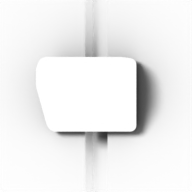
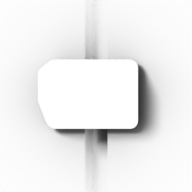
feat(panel): model drawbar and layer caps after the real parts
Owner photos of the real caps: black and white drawbars are one part, so
they now share one geometry and camera and differ only by material (no
per-instance projection). Drawbar cap: block with tapered sides and sloped
front, long lower nose offset left with chamfered front, low foot. Layer
cap: rounded frustum. Calibrated materials, Blender shadows.

diff --git a/assets/blender/parts_cap.py b/assets/blender/parts_cap.py
@@ -1,104 +1,91 @@
 """Drawbar / layer-fader cap and its slotted plate for the B7 proof (runs inside Blender).
 
-Original art (D16): authored from two extruded side profiles. Sizes are numbers measured on the
-owner's private reference (1 u = 129 reference px, see parts_knob.REF_PX_PER_U).
+Original art (D16): geometry authored from primitives (lofted sections); shapes follow the
+owner's photos of the real parts. Sizes are numbers measured on the owner's private reference (1 u = 129 reference px, see parts_knob.REF_PX_PER_U).
 """
 
 from __future__ import annotations
 
-import bmesh
 import bpy
-from proof_geom import box, loft, mesh_obj
+from proof_geom import box, loft
 
-# EMPIRICAL: white drawbar cap on the reference is 100 px wide and 231 px long; the lower nose
-# block is narrower (85 px), shifted left, and ends in a chamfer that reads as a 30 px band.
-CAP_W = 0.85  # EMPIRICAL: fitted to the reference cap silhouettes (IoU), was 0.78
+# Shape EMPIRICAL from photos of the real parts (owner, 2026-11-13): the drawbar cap is one
+# part: a tall rear block whose sides and front slope inward, and a long lower nose with a
+# chamfered front, narrower and offset left (reference). Plan size EMPIRICAL from the
+# reference (100 x 231 px = 0.78 x 1.79 u at the base). Black and white caps share this geometry.
+CAP_W = 0.80
 CAP_BACK, CAP_FRONT = 0.90, -0.89
-# ASSUMED: top block, nose and front skirt heights (only the lean and shading show them).
-CAP_HT, CAP_HN, CAP_HS = 0.50, 0.30, 0.04
-SKIRT_H = 0.16  # ASSUMED: lower body height (only its outline is measured)
-NOSE_X = (-0.45, 0.16)  # EMPIRICAL: nose left / right edge (black 16' cap, 4x zoom read)
-CAP_TAPER = 0.05  # EMPIRICAL: side walls lean in by this fraction of the width at the top
-CAP_BEVEL = 0.07  # EMPIRICAL: soft rounded edges, larger than v2's 0.03
+CAP_HT, CAP_HN = 0.50, 0.26  # ASSUMED heights (photo ratio about 2 : 1)
+BLOCK_FRONT = -0.18  # base of the block's sloped front face
+BLOCK_TOP_FRONT = 0.02  # top edge of that face
+NOSE_TOP_FRONT, NOSE_CHAMFER_Z = -0.66, 0.08  # front chamfer of the nose
+# EMPIRICAL (reference, every drawbar): the nose is narrower than the block and offset left
+NOSE_X = (-0.42, 0.18)
+FOOT_H = 0.12  # ASSUMED: low base under the nose, full width
+CAP_TAPER = 0.18  # EMPIRICAL: block top is about 0.82 of its base width (photo, front view)
+CAP_BEVEL = 0.07
 CAP_LIFT = 0.03  # cap floats above the plate so the slot shows under it
-# EMPIRICAL: grey layer-fader cap on the reference is 96 px wide and 74 px long.
-LAYER_W, LAYER_L = 0.69, 0.585  # EMPIRICAL: silhouette fit (was 0.75 x 0.57)
-LAYER_H = 0.34  # ASSUMED
-LAYER_BEVEL = 0.09  # EMPIRICAL: the layer cap reads as a rounder, pillowy block
+# Layer-fader cap EMPIRICAL from its photo: a frustum, top smaller than the base on all sides,
+# rounded edges. Base 96 x 74 reference px.
+LAYER_W, LAYER_L, LAYER_H = 0.74, 0.58, 0.36
+LAYER_TOP = (0.82, 0.50)  # top width / length as a fraction of the base
+LAYER_BEVEL = 0.07
 # EMPIRICAL: slot is about 22 px wide on the reference, 0.22 of the cap width.
 SLOT_W, SLOT_LEN, SLOT_DEPTH, PLATE_T = 0.17, 3.4, 0.16, 0.2
 
 
-def _extrude_profile(name, prof, x0, x1, mat, z_top, bevel=CAP_BEVEL):
-    """Extrude a (y, z) side profile between x0 and x1, then lean the side walls inward with
-    height (the sloped wall of the reference caps)."""
-    bm = bmesh.new()
-    lo = [bm.verts.new((x0, y, z)) for y, z in prof]
-    hi = [bm.verts.new((x1, y, z)) for y, z in prof]
-    bm.faces.new(lo[::-1])
-    bm.faces.new(hi)
-    n = len(prof)
-    for i in range(n):
-        j = (i + 1) % n
-        bm.faces.new((lo[i], lo[j], hi[j], hi[i]))
-    cx, w = (x0 + x1) / 2, x1 - x0
-    for v in bm.verts:
-        k = CAP_TAPER * (v.co.z / z_top) * w / 2
-        v.co.x -= k if v.co.x > cx else -k
-        v.co.z += CAP_LIFT
-    bmesh.ops.recalc_face_normals(bm, faces=bm.faces)
-    return mesh_obj(name, bm, mat, bevel=bevel, segments=8, angle=20)
+def _section(y, z, top_frac, x0=-CAP_W / 2, x1=CAP_W / 2):
+    """Trapezoid cross-section at y between x0 and x1, `top_frac` of that width on top."""
+    c, hb = (x0 + x1) / 2, (x1 - x0) / 2
+    ht, zl = hb * top_frac, CAP_LIFT
+    return [(c - hb, y, zl), (c + hb, y, zl), (c + ht, y, zl + z), (c - ht, y, zl + z)]
 
 
-def _section(y, x0, x1, z):
-    """Cross-section ring at y: bottom edge, then the top edge pulled in by the wall slope."""
-    k = CAP_TAPER * (x1 - x0) / 2 * min(1.0, z / CAP_HT)
-    zl = CAP_LIFT
-    return [(x0, y, zl), (x1, y, zl), (x1 - k, y, zl + z), (x0 + k, y, zl + z)]
+def _frac(z):
+    return 1.0 - CAP_TAPER * z / CAP_HT
 
 
 def fader_cap(m, key):
-    """Drawbar cap, lofted from back to front: rounded back chamfer, long flat top, a slope that
-    narrows into a lower nose shifted left, then the front skirt at the foot (shadowed by the
-    nose). `key` picks cap_black / cap_white."""
-    ht, hn, hs = CAP_HT, CAP_HN, CAP_HS
-    half = CAP_W / 2
-    nx0, nx1 = NOSE_X
-    sections = [
-        (CAP_BACK, -half, half, ht - 0.12),
-        (CAP_BACK - 0.20, -half, half, ht),
-        (-0.10, -half, half, ht),
-        (-0.38, nx0, nx1, hn),
-        (-0.66, nx0, nx1, hn),
-        (-0.74, nx0, nx1, 0.06),
+    """Drawbar cap: flange, tall rear block with sloped sides and front, long lower nose with
+    a chamfered front, lofted from back to front. `key` picks the material."""
+    ht, hn = CAP_HT, CAP_HN
+    w = (-CAP_W / 2, CAP_W / 2)
+    secs = [
+        (CAP_BACK, ht * 0.86, *w),
+        (CAP_BACK - 0.08, ht, *w),
+        (BLOCK_TOP_FRONT, ht, *w),
+        (BLOCK_FRONT, hn, *NOSE_X),
+        (NOSE_TOP_FRONT, hn, *NOSE_X),
+        (CAP_FRONT, NOSE_CHAMFER_Z, *NOSE_X),
     ]
-    body = loft(
-        "cap_body",
-        [_section(*s) for s in sections],
+    rings = [_section(y, z, _frac(z), x0, x1) for y, z, x0, x1 in secs]
+    body = loft("cap_body", rings, m[key], smooth=False, bevel=CAP_BEVEL, segments=8)
+    # the nose sits on a low full-width foot that ends with the nose (seen right of the nose)
+    foot = loft(
+        "cap_foot",
+        [_section(y, FOOT_H, 0.97) for y in (BLOCK_FRONT + 0.1, CAP_FRONT)],
         m[key],
         smooth=False,
-        bevel=CAP_BEVEL,
-        segments=8,
+        bevel=0.02,
+        segments=3,
     )
-    skirt = _extrude_profile(
-        "cap_skirt",
-        # EMPIRICAL: the lower body runs full width under and right of the nose down to the
-        # front (silhouette fit on the reference)
-        [(-0.08, 0.0), (-0.08, SKIRT_H), (CAP_FRONT + 0.03, SKIRT_H), (CAP_FRONT, 0.0)],
-        -half,
-        half,
-        m[key],
-        hs,
-    )
-    return [body, skirt]
+    return [body, foot]
 
 
 def layer_cap(m, key):
-    """Short layer-fader cap: a small back chamfer, a short flat top and a long front slope (the
-    reference shows the slope as the largest face)."""
-    ht, y0, y1 = LAYER_H, -LAYER_L / 2, LAYER_L / 2
-    prof = [(y1, 0.0), (y1, ht - 0.08), (y1 - 0.08, ht), (0.05, ht), (y0 + 0.03, 0.10), (y0, 0.0)]
-    return [_extrude_profile("layer_cap", prof, -LAYER_W / 2, LAYER_W / 2, m[key], ht, LAYER_BEVEL)]
+    """Layer-fader cap: rounded frustum, top smaller than the base on all four sides."""
+    w, ln, h = LAYER_W / 2, LAYER_L / 2, LAYER_H
+    tw, tl = w * LAYER_TOP[0], ln * LAYER_TOP[1]
+    rings = [
+        [(-w, -ln, CAP_LIFT), (w, -ln, CAP_LIFT), (w, ln, CAP_LIFT), (-w, ln, CAP_LIFT)],
+        [
+            (-tw, -tl, CAP_LIFT + h),
+            (tw, -tl, CAP_LIFT + h),
+            (tw, tl, CAP_LIFT + h),
+            (-tw, tl, CAP_LIFT + h),
+        ],
+    ]
+    return [loft("layer_cap", rings, m[key], smooth=False, bevel=LAYER_BEVEL, segments=6)]
 
 
 def plate_slot(m):

diff --git a/assets/blender/build_proof.py b/assets/blender/build_proof.py
@@ -93,25 +93,20 @@ def render_ref_knobs(out: Path, scale: int) -> None:
 
 
 CAPS = {
-    "drawbar_cap_black": ("drawbar_shadow_black", C.fader_cap),
-    "drawbar_cap_white": ("drawbar_shadow_white", C.fader_cap),
-    "layer_cap_grey": ("layer_shadow_grey", C.layer_cap),
+    "drawbar_cap_black": ("drawbar_shadow_black", C.fader_cap, "cap_black", "drawbar"),
+    "drawbar_cap_white": ("drawbar_shadow_white", C.fader_cap, "cap_white", "drawbar"),
+    "layer_cap_grey": ("layer_shadow_grey", C.layer_cap, "cap_grey", "layer"),
 }
 
 
 def render_caps(out: Path, scale: int) -> None:
-    """3D caps textured by camera projection (D17): the geometry gives the silhouette and its
-    anti-aliased edge, the reference crop (`proj_<cap>.png` from tools/panel_refbake.py,
-    already aligned to this camera's frame) gives the colour, unlit. Then the cap's shadow
-    on the slotted plate from the same geometry and lean."""
-    for name, (shadow, make) in CAPS.items():
-        m = fresh(scale, name, name)
-        mat = M.projected(f"proj_{name}", P.RAW_DIR / f"proj_{name}.png")
-        make({"proj": mat}, "proj")
-        cy = bpy.context.scene.cycles
-        cy.use_denoising, cy.samples = False, 64  # unlit texture: no noise, keep it sharp
+    """Caps as real parts: one geometry per part (both drawbar colours share it, same camera),
+    shaded with the calibrated materials, then the cap's shadow from the same geometry."""
+    for name, (shadow, make, mat, lean) in CAPS.items():
+        m = fresh(scale, name, lean)
+        make(m, mat)
         S.render(out / f"{name}_{scale}x.png")
-        m = fresh(scale, shadow, name)
+        m = fresh(scale, shadow, lean)
         S.flags(C.plate_slot(M.catcher_mats()), catcher=True)
         S.flags(make(m, "cap_black"), holdout=True)
         S.render(out / f"{shadow}_{scale}x.png")

diff --git a/assets/blender/proof_materials.py b/assets/blender/proof_materials.py
@@ -35,7 +35,7 @@ GAIN = {
     "silver": (1.091, 1.101, 1.078),
     "cap_black": (0.38, 0.307, 0.24),
     "cap_white": (1.059, 1.05, 1.039),
-    "cap_grey": (1.418, 1.407, 1.368),
+    "cap_grey": (1.12, 1.112, 1.081),
     "ring": (1.08, 1.08, 1.06),
     "knob_side": (1.8, 1.8, 1.8),
     "knob_top": (0.7, 0.66, 0.6),
@@ -175,7 +175,7 @@ def mats() -> dict[str, bpy.types.Material]:
         "pointer": material("pointer", u["pointer"], 0.45),
         "ring": material("ring", u["ring_white"], 0.6, gain=GAIN["ring"], spec=0.2),
         "cap_black": material(
-            "cap_black", u["cap_black_top"], 0.32, gain=GAIN["cap_black"], spec=0.8
+            "cap_black", u["cap_black_top"], 0.4, gain=GAIN["cap_black"], spec=0.35
         ),
         "cap_white": material(
             "cap_white", u["cap_white_top"], 0.35, gain=GAIN["cap_white"], spec=0.6

diff --git a/tools/panel_assets.py b/tools/panel_assets.py
@@ -53,7 +53,7 @@ LEAN = {
     # optical axis is above that knob (the reference is cropped off-centre vertically).
     "knob_master": (6.57, 1.0),
     "knob_drive": (6.57, 1.4),
-    "drawbar": (1.3, 2.97),
+    "drawbar": (1.3, 5.3),  # EMPIRICAL: between the 16' and 8' caps, axis above centre
     "layer": (5.29, -2.73),
     "button": (6.59, 0.70),
     "plate": (0.0, 0.0),

diff --git a/docs/research/panel-blender-proof.md b/docs/research/panel-blender-proof.md
@@ -65,7 +65,9 @@ MAD (mean absolute difference, 0..255) compares ours with the same reference are
 
 Sizes with the full style set: the proof set is 824 KB (1x) / 2.76 MB (2x) PNG. The full-panel estimate assumes 6 knob styles and 15 button styles, each button getting two more states later: 2.16 MB / 6.64 MB PNG, and 15.5 MB / 62.1 MB RGBA in GPU memory. The private comparison sheet is `.reference/panel-compare-v5.png`.
 
-Owner review of v4 (2026-11-13): the Blender drawbar and layer caps did not match, the DRIVE knob looked flat with a light red rim, and its "6" was clipped. Fixes: the caps are now cut from the reference with their own shadow layers. The knob edge colours are taken from the cap interior instead of the red plate. Second review: the plate grain was too soft (patch blending and the whole-tile cross-fade averaged two textures), so the tiles are now quilted on a torus with narrow overlaps. The caps showed a light halo, LED glow and label ticks; they now use a colour matte on the edge (alpha from the position between the local cap and plate colours), the LED glow is recoloured from the clean cap, the top block sides are straightened, and the shadow layer leaves out the edge pixels next to the cap. The button crops are inset 1 px. Third review: light bits at the white cap corners came from the silver label next to the cap unmixing as cap; bluish pixels outside the cap are now always transparent. The plate behind the caps (`plate_slate_slot`) was still the Blender slate; `pack` now keeps only the Blender slot and fills the plate with the reference slate tile shifted to the darker slate of the drawbar area (47, 57, 68), so that plate is now reference-derived (D17). Fifth review (cutouts replaced by 3D): the owner asked for real rendered borders. The caps are now Blender geometry (`parts_cap.py`) rendered with a camera at each cap's own lean (`panel_assets.LEAN`). The material is unlit and shows the reference crop through window (screen) coordinates, so the crop is projected onto the geometry from that camera (`proof_materials.projected`). The crop comes from `tools/panel_refcaps.projection_texture`, with the plate around the cap filled with cap colour. The silhouette and its anti-aliased edge therefore come from the geometry, and the colour from the reference. The geometry was fitted to the reference silhouettes: cap width 0.85 u, lower body full width from under the top block to the front, layer cap 0.69 x 0.585 u, and per-cap centre and lean. Silhouette IoU (rendered alpha vs reference cap mask, 2x): black 0.94, white 0.94, grey layer 0.90. The shadows are 3D shadow-catcher renders from the same geometry. The previous 2D cut-out steps described next were superseded for the caps.
+Owner review of v4 (2026-11-13): the Blender drawbar and layer caps did not match, the DRIVE knob looked flat with a light red rim, and its "6" was clipped. Fixes: the caps are now cut from the reference with their own shadow layers. The knob edge colours are taken from the cap interior instead of the red plate. Second review: the plate grain was too soft (patch blending and the whole-tile cross-fade averaged two textures), so the tiles are now quilted on a torus with narrow overlaps. The caps showed a light halo, LED glow and label ticks; they now use a colour matte on the edge (alpha from the position between the local cap and plate colours), the LED glow is recoloured from the clean cap, the top block sides are straightened, and the shadow layer leaves out the edge pixels next to the cap. The button crops are inset 1 px. Third review: light bits at the white cap corners came from the silver label next to the cap unmixing as cap; bluish pixels outside the cap are now always transparent. The plate behind the caps (`plate_slate_slot`) was still the Blender slate; `pack` now keeps only the Blender slot and fills the plate with the reference slate tile shifted to the darker slate of the drawbar area (47, 57, 68), so that plate is now reference-derived (D17). Sixth review (real parts): with the owner's photos of the real drawbar and layer-fader caps, the black and white drawbar caps are one shared part rendered with the same camera (`LEAN["drawbar"]`) and the calibrated materials, not two shapes fitted per instance with the reference projected on them. The drawbar cap is a lofted block with sides tapering to 0.82 of the base, a sloped front, a long lower nose (narrower and offset left, as on every drawbar of the reference) with a chamfered front, on a low full-width foot. The layer cap is a rounded frustum. The projection step below is kept in the tools but no longer used by the caps.
+
+Fifth review (cutouts replaced by 3D): the owner asked for real rendered borders. The caps are now Blender geometry (`parts_cap.py`) rendered with a camera at each cap's own lean (`panel_assets.LEAN`). The material is unlit and shows the reference crop through window (screen) coordinates, so the crop is projected onto the geometry from that camera (`proof_materials.projected`). The crop comes from `tools/panel_refcaps.projection_texture`, with the plate around the cap filled with cap colour. The silhouette and its anti-aliased edge therefore come from the geometry, and the colour from the reference. The geometry was fitted to the reference silhouettes: cap width 0.85 u, lower body full width from under the top block to the front, layer cap 0.69 x 0.585 u, and per-cap centre and lean. Silhouette IoU (rendered alpha vs reference cap mask, 2x): black 0.94, white 0.94, grey layer 0.90. The shadows are 3D shadow-catcher renders from the same geometry. The previous 2D cut-out steps described next were superseded for the caps.
 
 Fourth review (edge quality): the cap alpha is no longer the ragged pixel mask; it is smoothed geometrically (opening, 2 px blur, threshold at 4x, box downsample), which removes nubs and gives anti-aliased straight edges and round corners, and a 2 px band inside the edge takes the cap colour from the interior. The shadow layer starts below the top 30 % of the cap (LED ladders sit beside the top block). Top-face pointer pixels are inpainted by turning about the leaning top centre. The label mask no longer touches the "6".
 

diff --git a/docs/specs/visual-style-and-panel.md b/docs/specs/visual-style-and-panel.md
@@ -126,7 +126,7 @@ To keep every label legible on standard 1080p/1440p/4K monitors and inside DAW p
 
 ## 6. Baked sprite proof (B7, Phase 6b)
 
-Measured output of the D15 baker (v4, matched feature by feature to the owner's private Organ section render; since [D17](../DECISIONS.md#d17-panel-proof-sprites-may-be-derived-from-the-reference-render) buttons, triangle selectors, knob bodies, the DRIVE scale and plate tiles are cut from the reference by `tools/panel_refbake.py`, and the drawbar and layer caps are 3D renders coloured by the reference projected from their camera, tagged `REFERENCE-DERIVED (D17)`): a knob filmstrip with two separate overlay layers (arc ring, numbered DRIVE scale), drawbar caps (black, white) with one shared shadow, a grey layer-fader cap with its own shadow, grey and black pill buttons in their wells, three seamless plate tiles (red leather, slate, silver header) and the slotted slate plate. Rendered by `assets/blender/build_proof.py`, committed under `assets/panel/proof/` with SHA-256 hashes in `manifest.json` (`python tools/panel_assets.py verify`). Colours and proportions are numbers measured on the reference, stored in [`assets/panel/theme_samples.json`](../../assets/panel/theme_samples.json) (no pixels, D16). Details, method, sizes and what still differs: [panel-blender-proof.md](../research/panel-blender-proof.md).
+Measured output of the D15 baker (v4, matched feature by feature to the owner's private Organ section render; since [D17](../DECISIONS.md#d17-panel-proof-sprites-may-be-derived-from-the-reference-render) buttons, triangle selectors, knob bodies, the DRIVE scale and plate tiles are cut from the reference by `tools/panel_refbake.py`, tagged `REFERENCE-DERIVED (D17)`): a knob filmstrip with two separate overlay layers (arc ring, numbered DRIVE scale), drawbar caps (black, white) with one shared shadow, a grey layer-fader cap with its own shadow, grey and black pill buttons in their wells, three seamless plate tiles (red leather, slate, silver header) and the slotted slate plate. Rendered by `assets/blender/build_proof.py`, committed under `assets/panel/proof/` with SHA-256 hashes in `manifest.json` (`python tools/panel_assets.py verify`). Colours and proportions are numbers measured on the reference, stored in [`assets/panel/theme_samples.json`](../../assets/panel/theme_samples.json) (no pixels, D16). Details, method, sizes and what still differs: [panel-blender-proof.md](../research/panel-blender-proof.md).
 
 | Item | Value | Tag |
 |---|---|---|
@@ -136,8 +136,8 @@ Measured output of the D15 baker (v4, matched feature by feature to the owner's 
 | Knob filmstrip | 64 frames, 8x8 grid, frame 96 px (1x) / 192 px (2x), transparent, pointer -135 to +135 deg clockwise; 20 flutes, bent tapered pointer | rotation and proportions `EMPIRICAL` |
 | Knob arc ring | own layer, 270 deg, outer 1.31 x cap radius, thickness 3 to 15 reference px | `EMPIRICAL` (circle fit) |
 | Reference knobs | Master Level and DRIVE: cap body from the reference (pointer removed), Blender pointer filmstrip (64 frames, cap holdout) and shadow at each knob's lean; DRIVE numeral scale layer from the reference | `REFERENCE-DERIVED (D17)` body and scale, pointer `EMPIRICAL` |
-| Drawbar caps | black (16'), white (8'); 96 x 160 px (1x); 3D geometry coloured by the projected reference crop, Blender shadow per cap | geometry `EMPIRICAL` (silhouette fit, IoU 0.94), colour `REFERENCE-DERIVED (D17)` |
-| Layer-fader cap | grey; 96 x 96 px (1x); 3D geometry, projected reference colour, own Blender shadow | geometry `EMPIRICAL` (IoU 0.90), colour `REFERENCE-DERIVED (D17)` |
+| Drawbar caps | black (16'), white (8'); 96 x 160 px (1x); one shared 3D part (block with tapered sides, sloped front, long lower nose offset left, chamfered front, low foot), same camera for both colours, calibrated materials, Blender shadow | shape from the owner's photos of the real part, size `EMPIRICAL` |
+| Layer-fader cap | grey; 96 x 96 px (1x); 3D rounded frustum, calibrated material, own Blender shadow | shape from the owner's photo, size `EMPIRICAL` |
 | Buttons | all 15 buttons of the reference (black and grey pills, octave pair), up state with well, one sprite per instance (about 68 x 38 px at 1x) | `REFERENCE-DERIVED (D17)` |
 | Triangle selectors | ORGAN MODEL and VIB/CHORUS matrices, unlit base plus lit overlay (left, up; right and down mirrored) | `REFERENCE-DERIVED (D17)` |
 | Plate tiles | red, slate, silver; 128 px (1x), seamless, quilted from clean reference patches shifted to the measured colours | `REFERENCE-DERIVED (D17)` |

diff --git a/docs/DECISIONS.md b/docs/DECISIONS.md
@@ -219,6 +219,6 @@ Each decision records **Context, Decision, Why, Alternatives, Impact**, plus **S
   - B. Keep reference-derived sprites local only (git-ignored): no publication risk, but the app and CI would not have the assets.
 - **Impact:**
   - **Copyright risk:** the repository `ymatrix1/nord-stage-4-emulator` is public. The committed sprites below are derived from Clavia's own product imagery. Publishing them carries a copyright (and, for the look of the product, trade-dress) risk that D16 had avoided. The owner accepted this risk on 2026-11-13. This is a project decision, not legal advice.
-  - **Reference-derived files** (both 1x and 2x, in `assets/panel/proof/`): `button_*` (15 buttons), `tri_organ_model`, `tri_vib_chorus`, `tri_lit_left`, `tri_lit_up`, `knob_body_master`, `knob_body_drive`, `knob_scale`, `drawbar_cap_black`, `drawbar_cap_white`, `layer_cap_grey` (3D Blender geometry whose colour is the reference crop projected from the matching camera; their shadows are plain Blender renders), `plate_red`, `plate_slate`, `plate_silver`. The list is generated by `panel_assets.ref_sprites()`. These can be swapped back to original renders by dropping them from `ref_crops.json` and restoring the Blender stages.
-  - **Still original (D16 rules):** `knob_filmstrip` (generic knob), `pointer_*` filmstrips, `knob_shadow_*`, `knob_ring`, and the slot itself in `plate_slate_slot` (its plate area is the reference slate tile).
+  - **Reference-derived files** (both 1x and 2x, in `assets/panel/proof/`): `button_*` (15 buttons), `tri_organ_model`, `tri_vib_chorus`, `tri_lit_left`, `tri_lit_up`, `knob_body_master`, `knob_body_drive`, `knob_scale`, `plate_red`, `plate_slate`, `plate_silver`. The list is generated by `panel_assets.ref_sprites()`. These can be swapped back to original renders by dropping them from `ref_crops.json` and restoring the Blender stages.
+  - **Still original (D16 rules):** `knob_filmstrip` (generic knob), `pointer_*` filmstrips, `knob_shadow_*`, `knob_ring`, the drawbar and layer caps and their shadows (3D parts modelled after the owner's photos of the real caps), and the slot itself in `plate_slate_slot` (its plate area is the reference slate tile).
   - Provenance tags: reference-derived sprites are tagged `REFERENCE-DERIVED (D17)` in `ref_crops.json`, the research note and spec [visual-style-and-panel.md](specs/visual-style-and-panel.md) §6.
